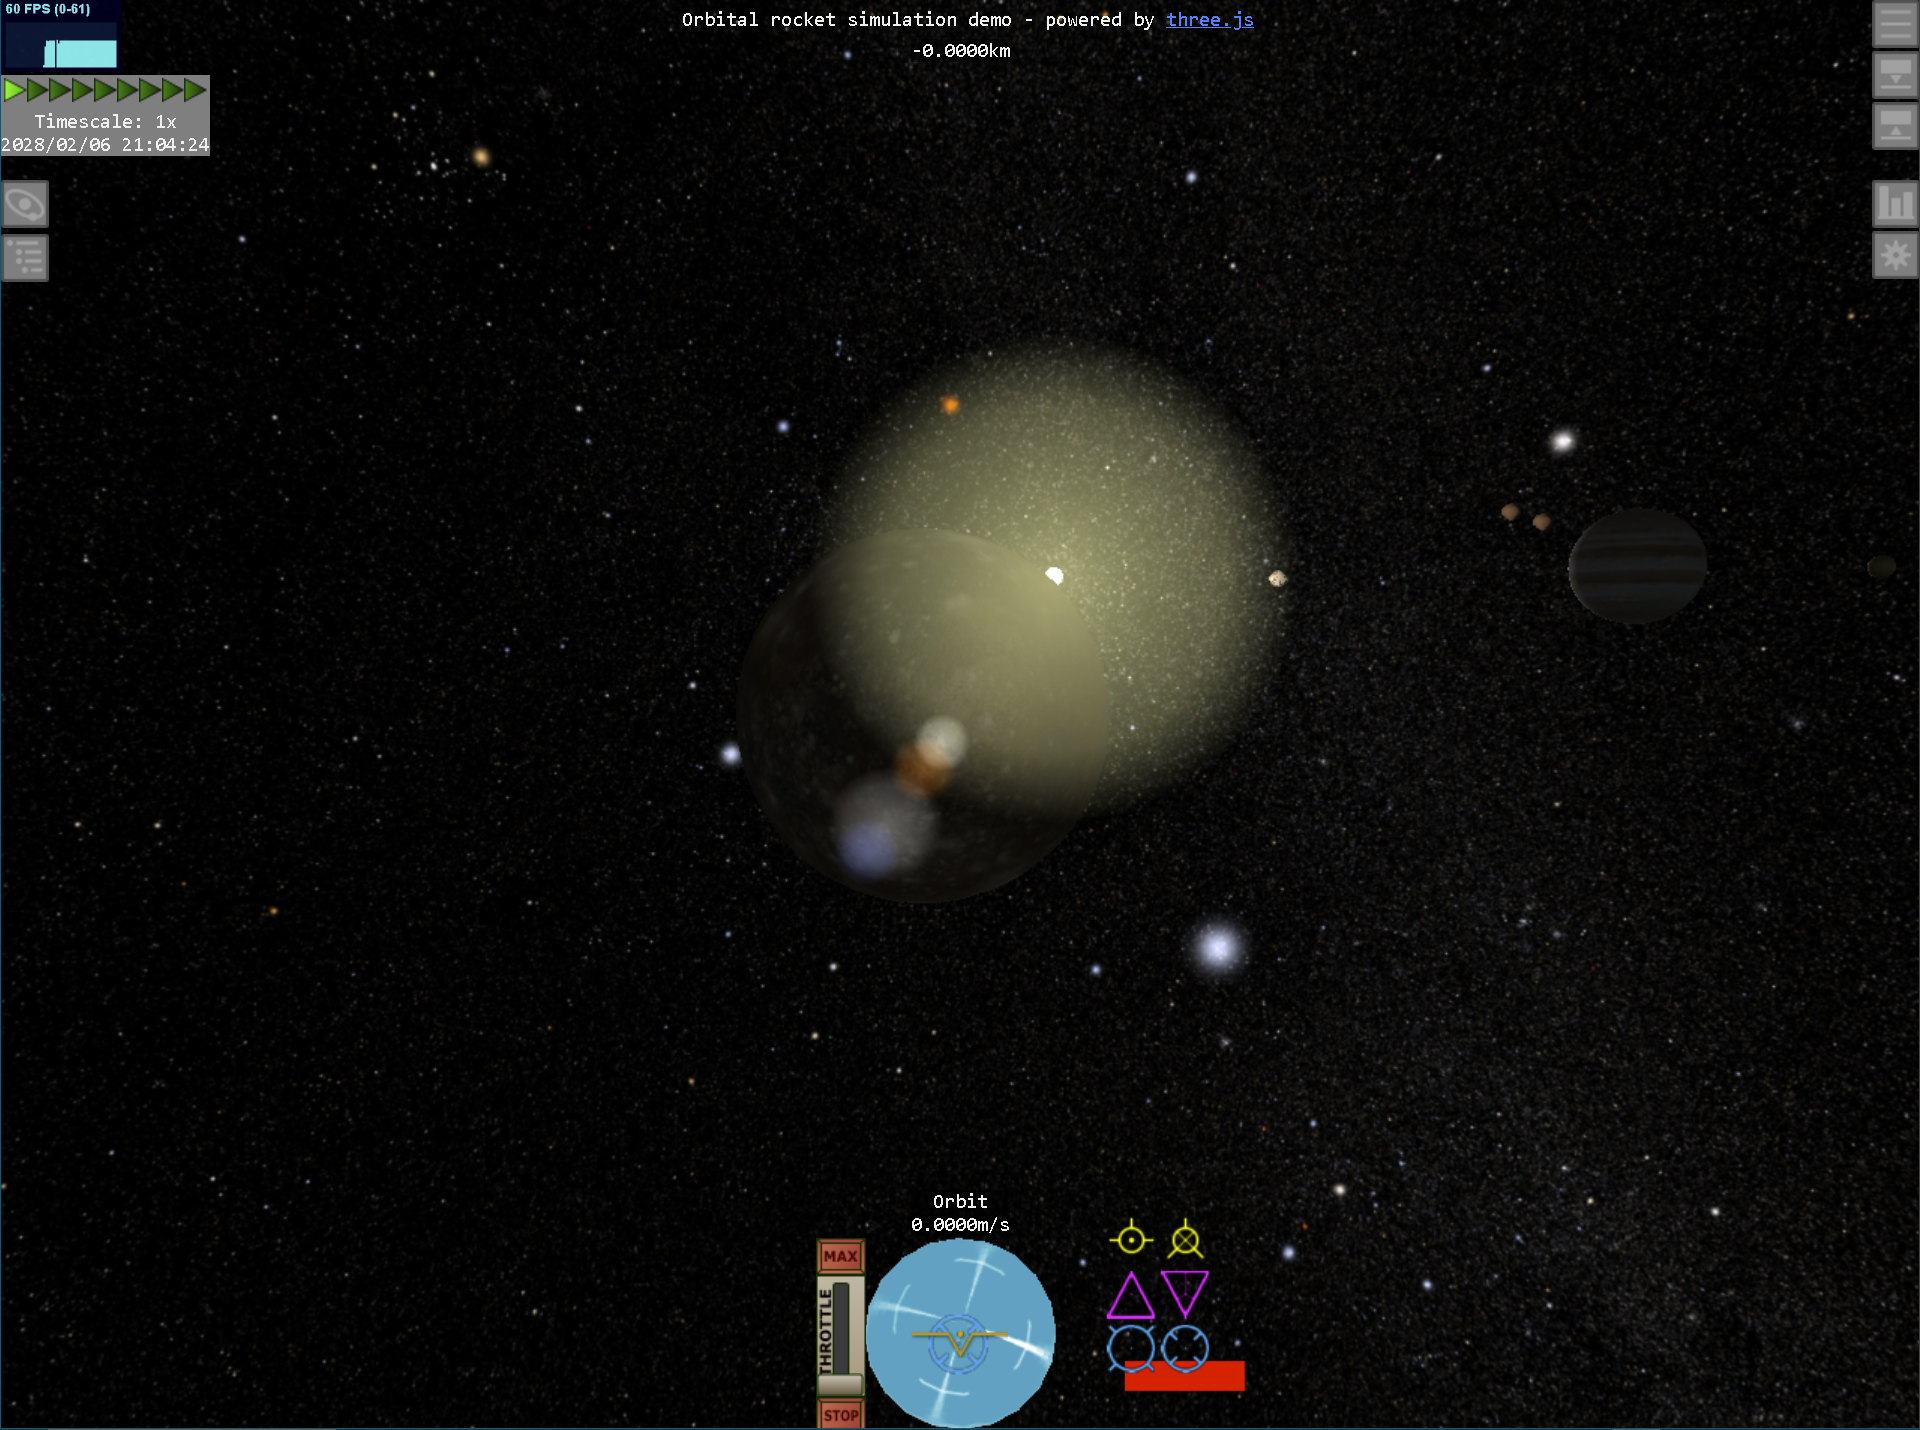
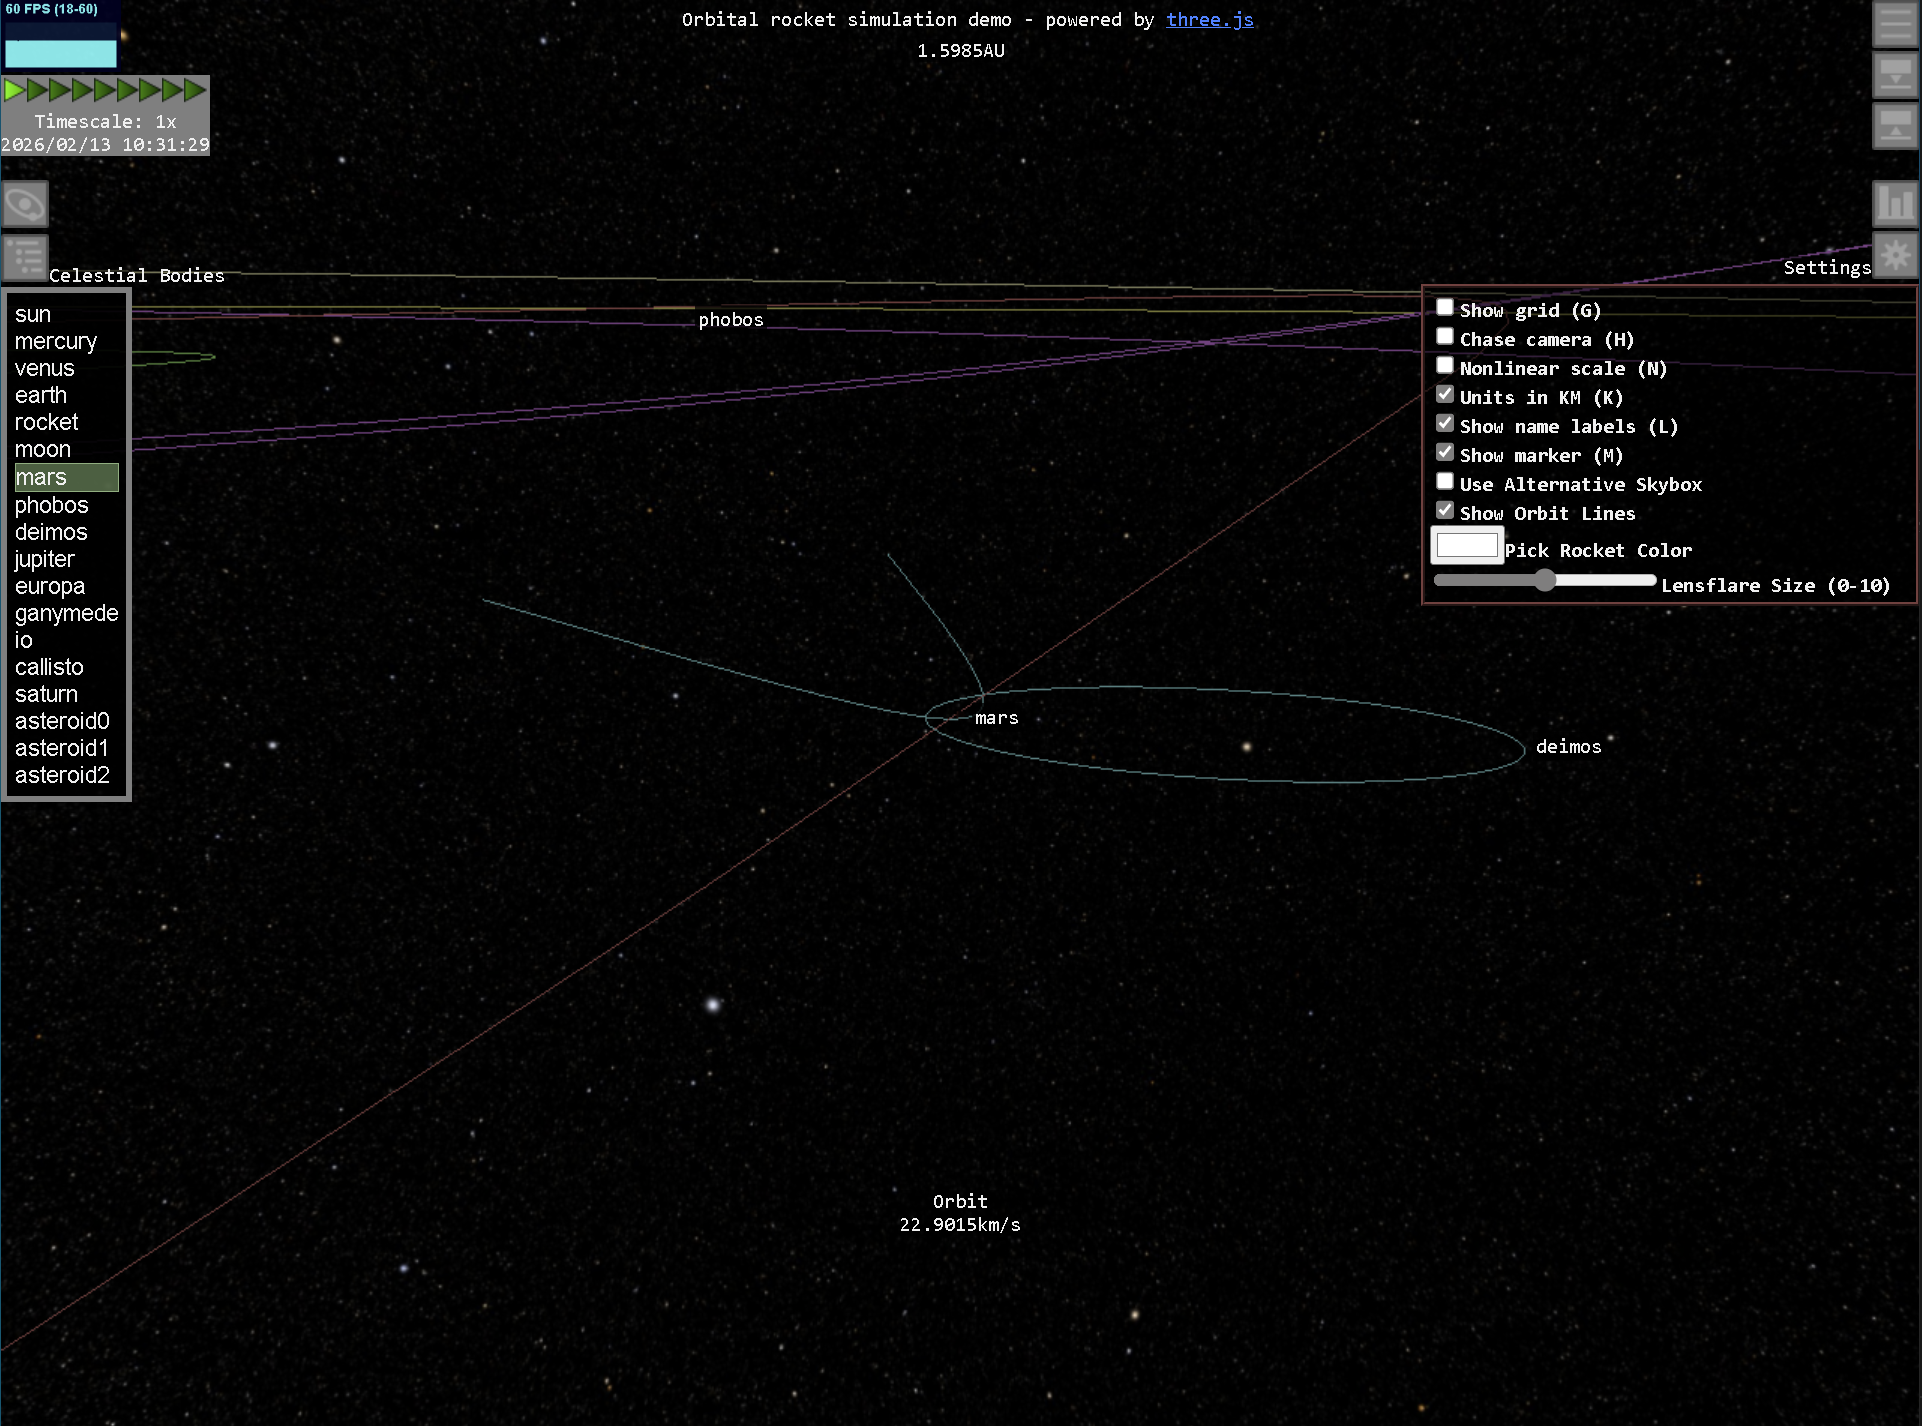
updated screenshots in readme

diff --git a/src/Universe.ts b/src/Universe.ts
@@ -479,6 +479,7 @@ export default class Universe{
             scene.add( asteroid.model );
 
             asteroid.orbitMaterial = new THREE.LineBasicMaterial({color: 0x7f3f7f});
+            asteroid.orbitMaterial.depthWrite = false;
             const orbitMesh = new THREE.Line(orbitGeometry, asteroid.orbitMaterial);
             asteroid.orbit = orbitMesh;
             scene.add(orbitMesh);

diff --git a/src/CelestialBody.ts b/src/CelestialBody.ts
@@ -86,6 +86,7 @@ export class CelestialBody{
         this.quaternion = new THREE.Quaternion(0,0,0,1);
         this.angularVelocity = new THREE.Vector3(0,0,0);
         if(orbitColor) this.orbitMaterial = new THREE.LineBasicMaterial({color: orbitColor});
+        
         this.children = [];
         this.parent = parent;
         this.GM = GM || GMsun;

diff --git a/README.md b/README.md
@@ -169,7 +169,7 @@ On top right corner of the screen is a little icon.
 
 Clicking it will show a list of predefined scenarios.
 
-![Scenario selector](screenshots/scenarioSelector.jpg)
+![Scenario selector](screenshots/scenarioSelector.png)
 
 Clicking one of these items will teleport the rocket to specific location in the solar system.
 
@@ -236,7 +236,7 @@ Below the Orbital Elements control is Celestial Bodies button.
 
 If you click on it,  a little table shows up like below.
 
-![](screenshots/celestialBodies.jpg)
+![](screenshots/celestialBodies.png)
 
 Currently focused celestial body is highlighted.
 Clicking on a name of a body will make the focus move to that body.
@@ -274,7 +274,7 @@ Just below the Statistics icon is an icon for toggling setting display.
 Clicking on it will toggle the display of a panel for settings.
 Characters in parentheses indicate shortcut keys.
 
-![](screenshots/settings.jpg)
+![](screenshots/settings.png)
 
 * Show grid - Toggles display of a grid in space.
 * Chase camera - If it's turned on, the camera will automatically face the directon of vehicle's acceleration.
